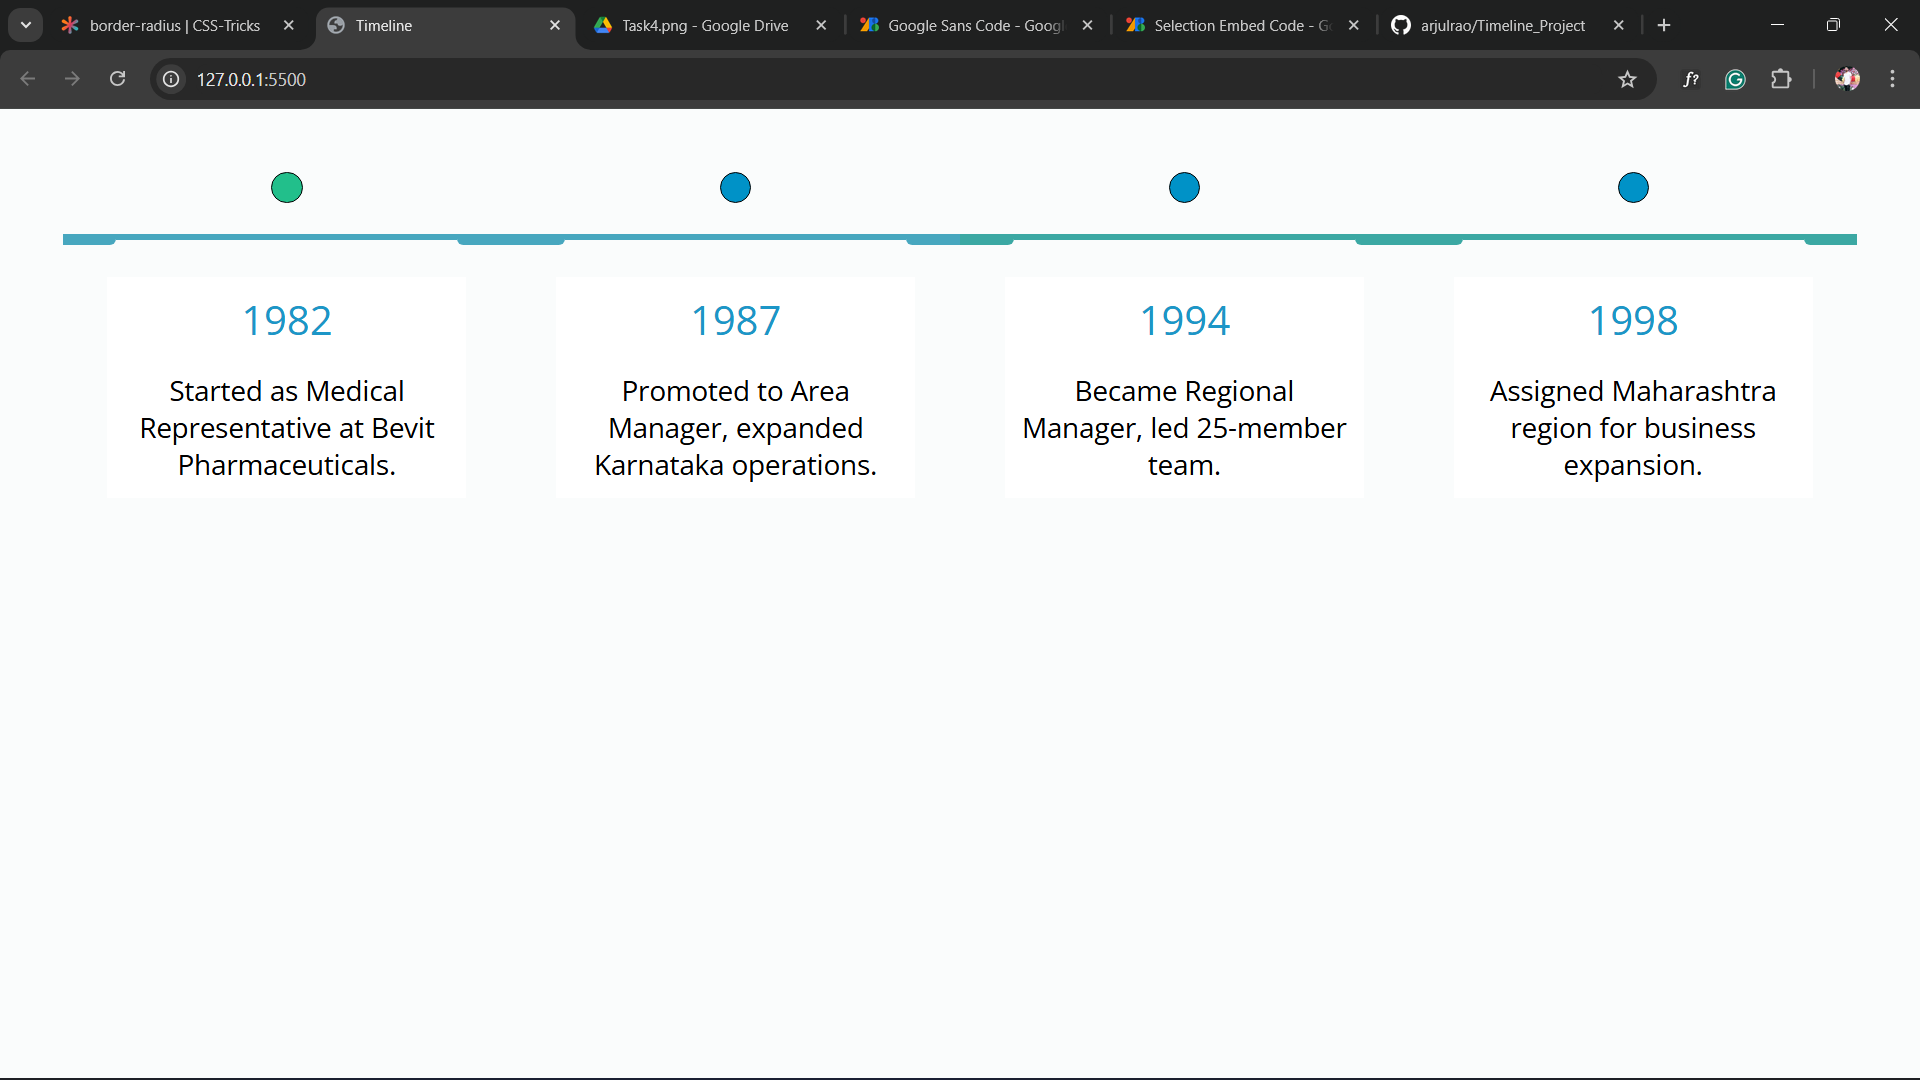
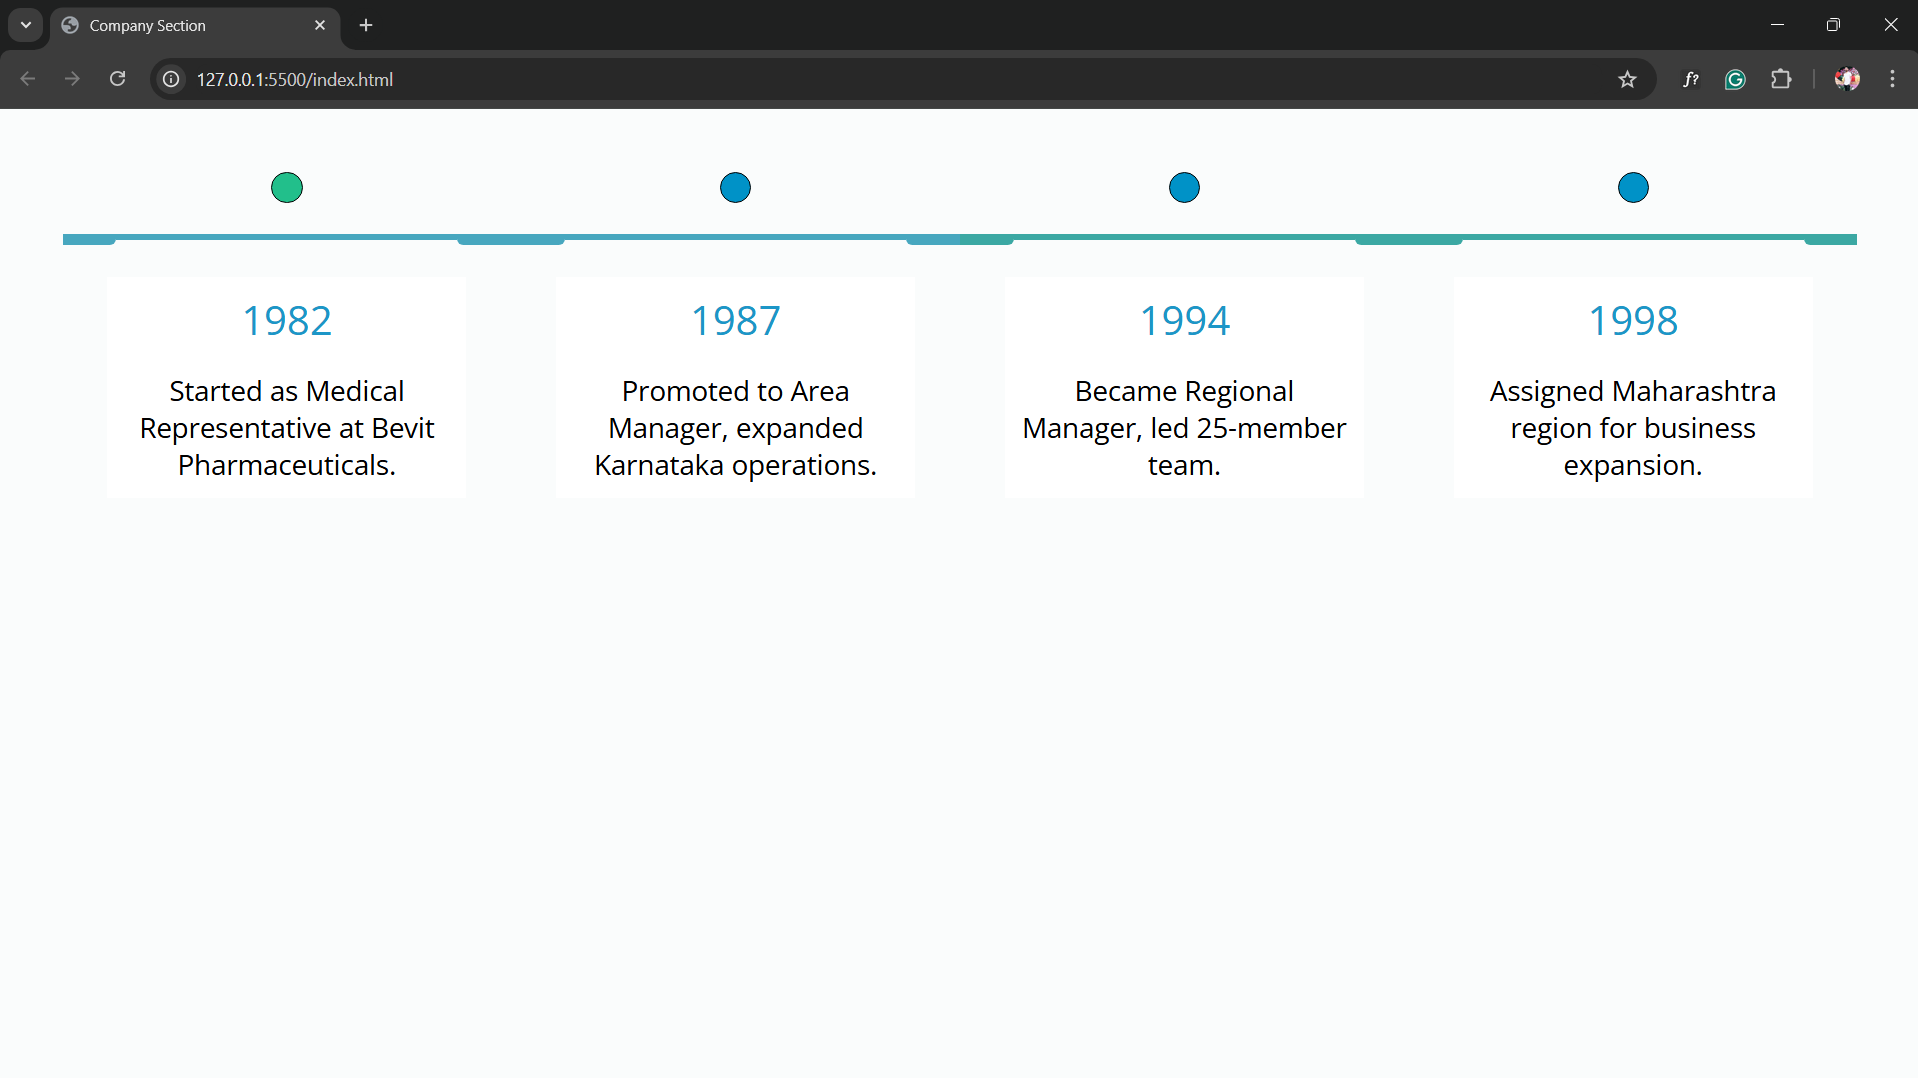
add output image

diff --git a/index.html b/index.html
@@ -3,7 +3,7 @@
 <head>
     <meta charset="UTF-8">
     <meta name="viewport" content="width=device-width, initial-scale=1.0">
-    <title>Timeline</title>
+    <title>Company Section</title>
     <style>
         @import url('https://fonts.googleapis.com/css2?family=Open+Sans:ital,wght@0,300..800;1,300..800&display=swap');
     </style>
